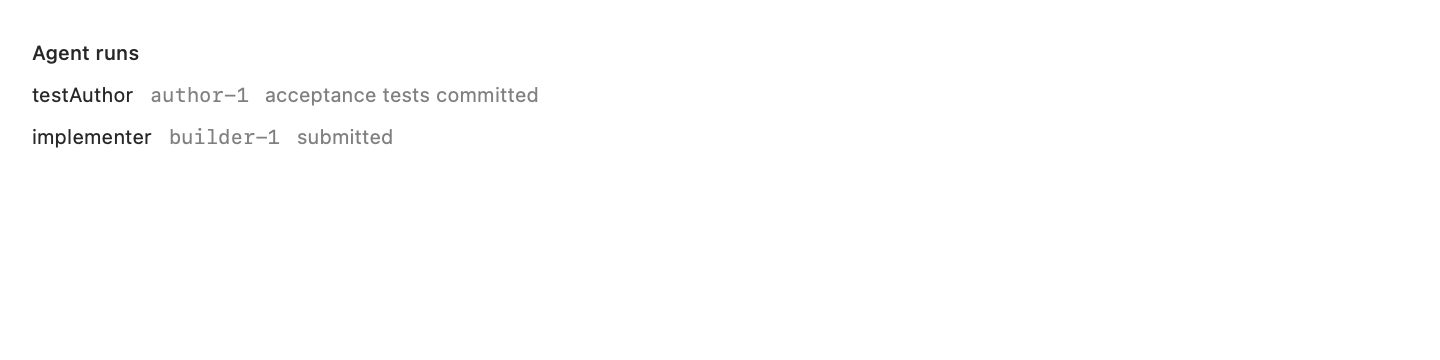
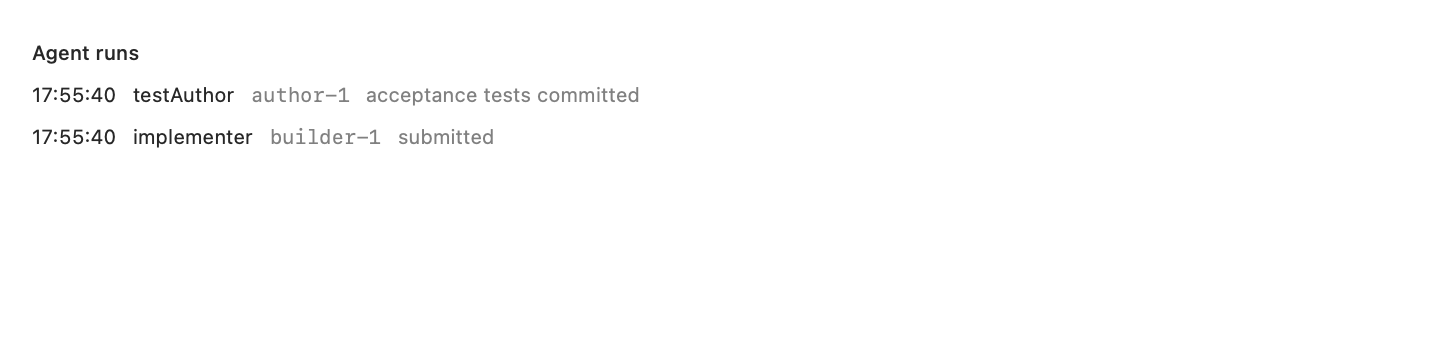
Fixes

Changed region(s): [[0.0, 0.2444, 0.4688, 0.3056], [0.0, 0.3361, 0.3438, 0.3972]]

diff --git a/AgentOS/HarnessApp/AgentOSKit/Sources/AgentOSUI/RunningAgents.swift b/AgentOS/HarnessApp/AgentOSKit/Sources/AgentOSUI/RunningAgents.swift
@@ -303,6 +303,7 @@ struct AgentRuns: View {
             Text("Agent runs").font(.caption.bold()).padding(.top, 4)
             ForEach(runs, id: \.run) { item in
                 HStack {
+                    Text(item.date.formatted(date: .omitted, time: .standard))
                     Text(item.role.rawValue)
                     Text(item.run).monospaced().foregroundStyle(.secondary)
                     Text(item.outcome ?? "running…").foregroundStyle(.secondary).lineLimit(1)
@@ -317,9 +318,17 @@ struct AgentRuns: View {
     }
 
     struct Item {
+        internal init(run: RunID, role: AgentRole, outcome: String? = nil, date: Date) {
+            self.run = run
+            self.role = role
+            self.outcome = outcome
+            self.date = date
+        }
+        
         let run: RunID
         let role: AgentRole
         var outcome: String?
+        var date: Date
     }
 
     @MainActor
@@ -333,7 +342,7 @@ struct AgentRuns: View {
         for record in records where record.event.node == node {
             switch record.event.kind {
             case .runStarted(let run, let role) where role != .verifier:
-                items.append(Item(run: run, role: role))
+                items.append(Item(run: run, role: role, date: record.event.at))
             case .runFinished(let run, let outcome):
                 if let index = items.firstIndex(where: { $0.run == run }) { items[index].outcome = outcome }
             default:
